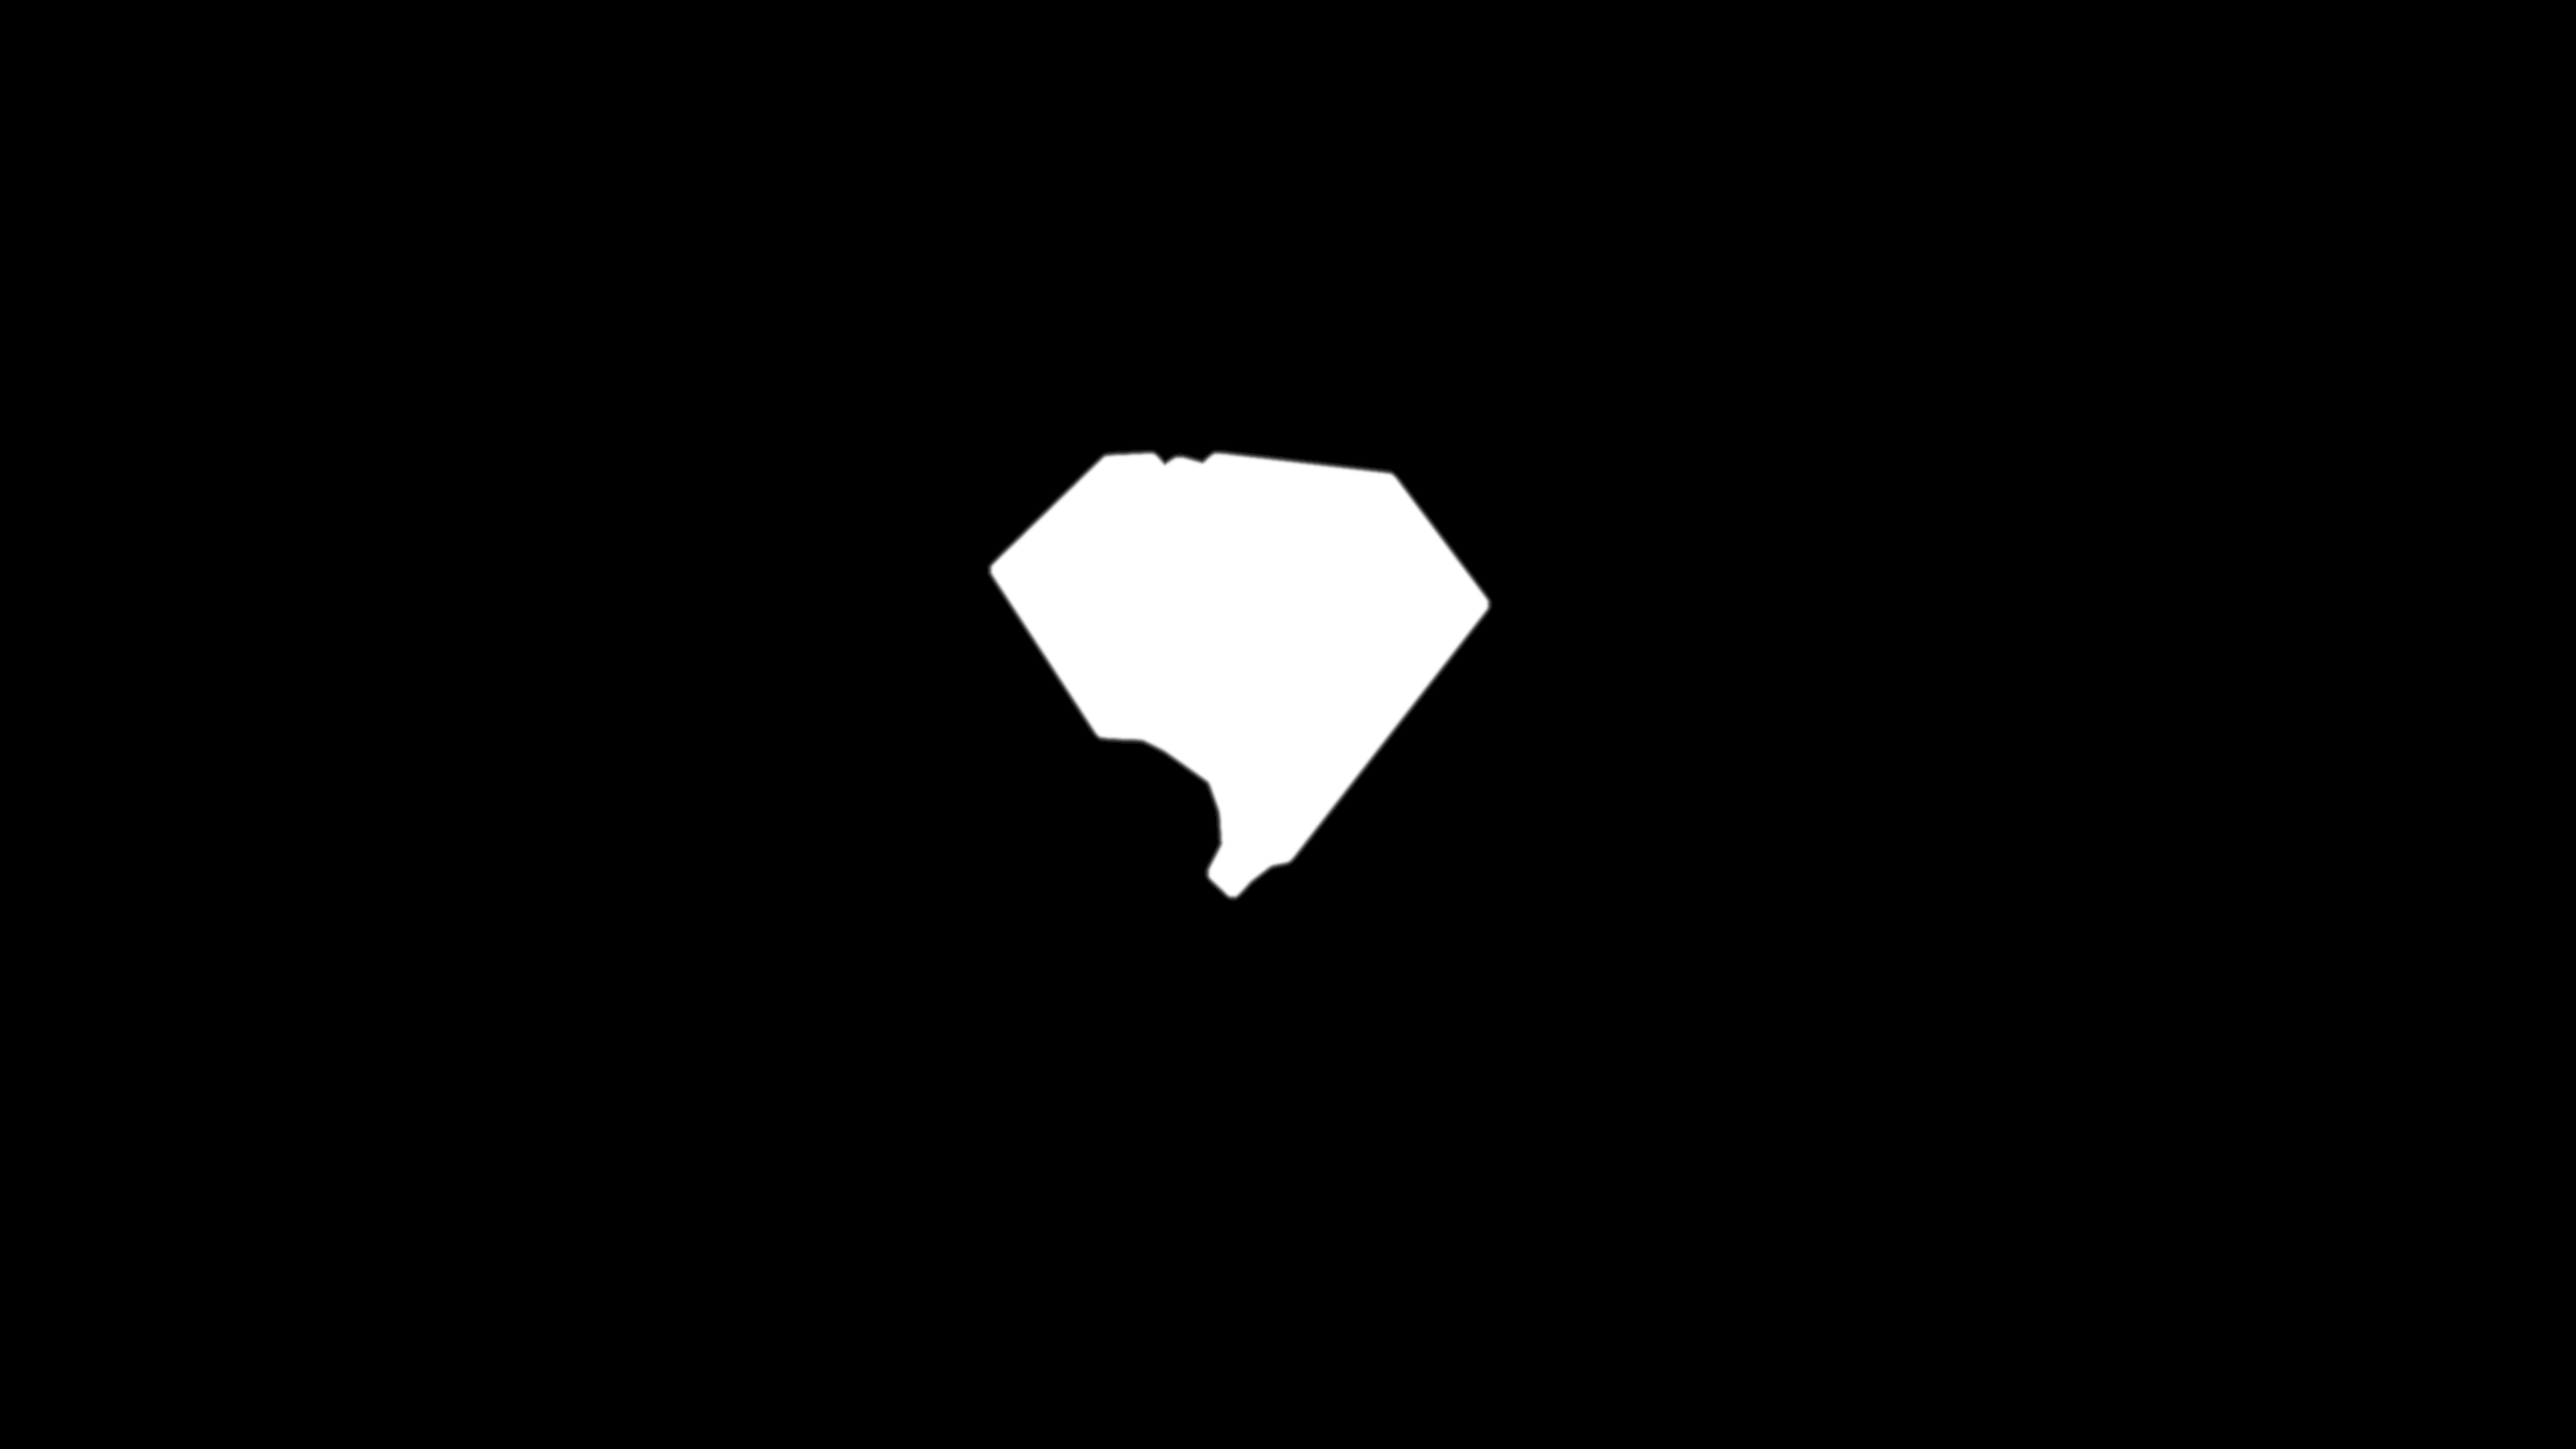
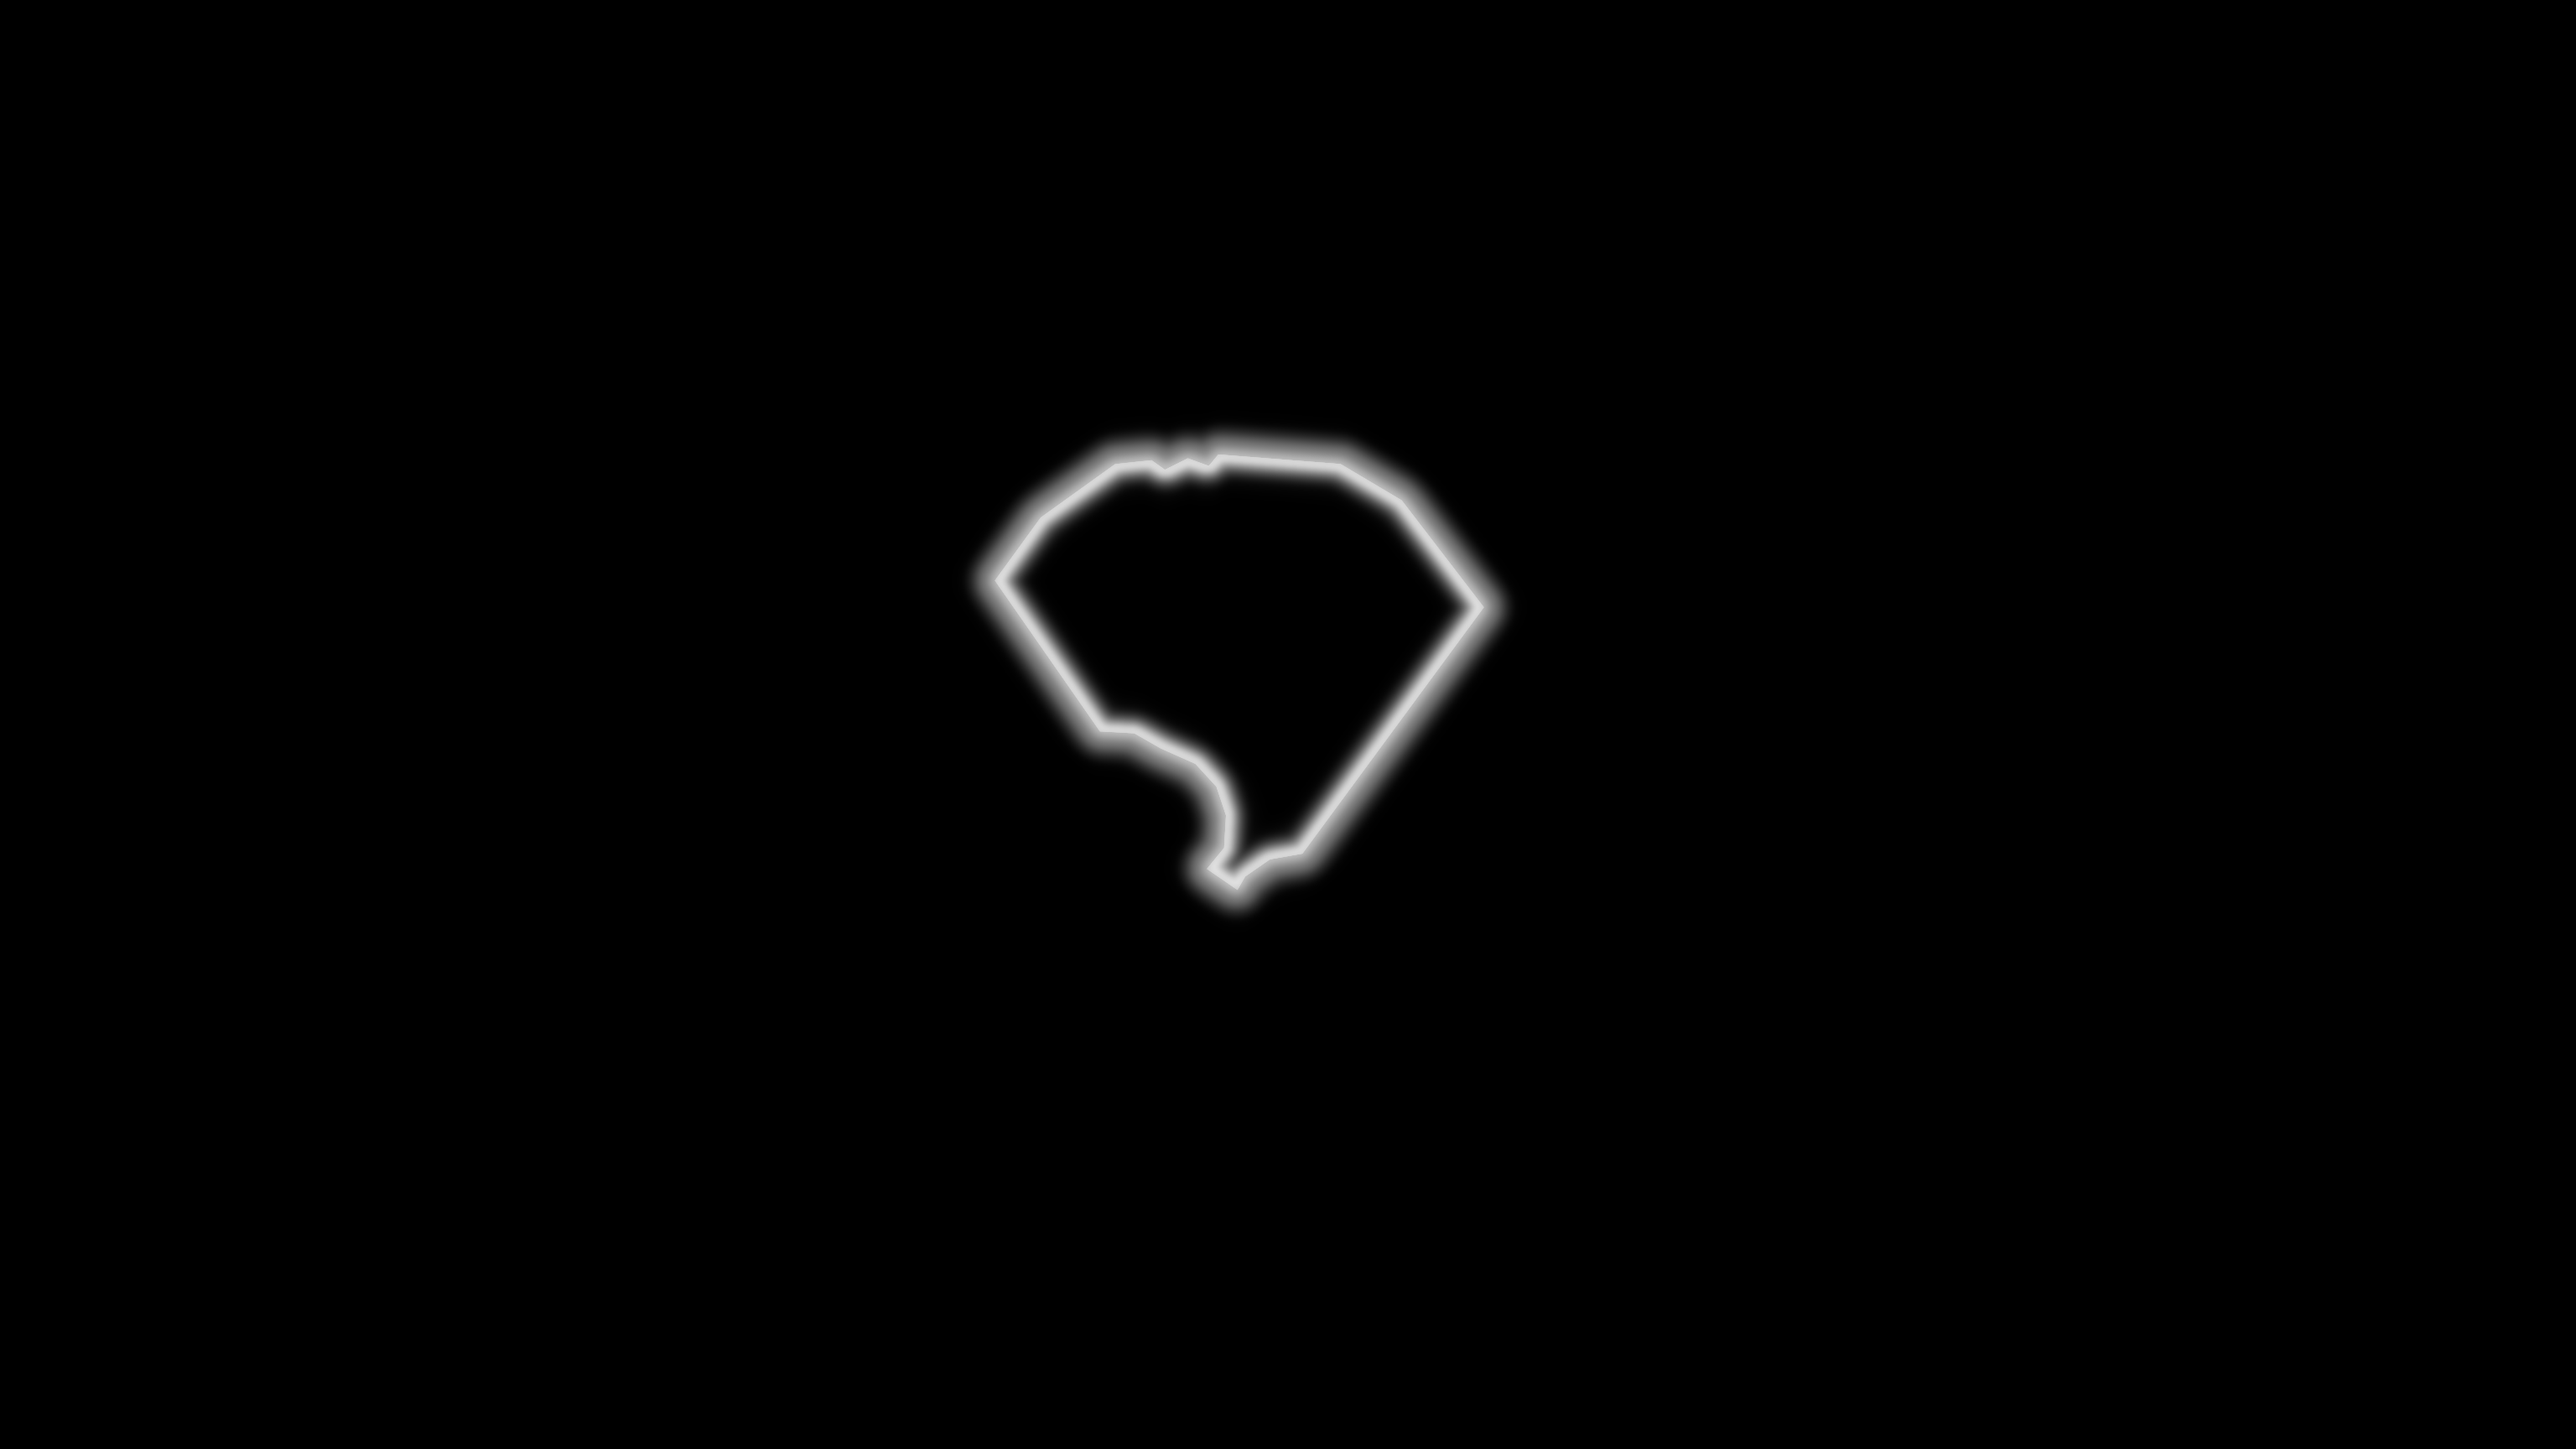
fix: remove godray effect and update diamond mask assets
Drop GodrayFilter — incompatible with the two-layer rendering
architecture (Canvas 2D scene + transparent PixiJS overlay).
Update diamond glow mask PNGs with revised edge profiles.

Changed region(s): [[0.375, 0.2812, 0.5938, 0.625]]

diff --git a/tests/unit/effects.test.js b/tests/unit/effects.test.js
@@ -64,7 +64,6 @@ describe('effects.js — factory registry', () => {
       expect(hasEffectType('heat')).toBe(true);
       expect(hasEffectType('dust')).toBe(true);
       expect(hasEffectType('glow')).toBe(true);
-      expect(hasEffectType('godray')).toBe(true);
       expect(hasEffectType('shockwave')).toBe(true);
     });
 
@@ -104,16 +103,14 @@ describe('effects.js — factory registry', () => {
   });
 
   describe('type sets', () => {
-    it('noiseFreeTypes contains glow, godray, and shockwave', () => {
+    it('noiseFreeTypes contains glow and shockwave', () => {
       expect(noiseFreeTypes.has('glow')).toBe(true);
-      expect(noiseFreeTypes.has('godray')).toBe(true);
       expect(noiseFreeTypes.has('shockwave')).toBe(true);
       expect(noiseFreeTypes.has('water')).toBe(false);
     });
 
-    it('overlayTypes contains glow but not godray', () => {
+    it('overlayTypes contains glow', () => {
       expect(overlayTypes.has('glow')).toBe(true);
-      expect(overlayTypes.has('godray')).toBe(false);
       expect(overlayTypes.has('shockwave')).toBe(false);
     });
   });
@@ -233,32 +230,6 @@ describe('effects.js — factory registry', () => {
 
     it('glow effect uses default params when none provided', () => {
       const result = createEffect('glow', null);
-
-      expect(result).not.toBeNull();
-      expect(result.filter).toBeDefined();
-    });
-
-    it('creates a godray effect with filter and update function', () => {
-      const result = createEffect('godray', null, {
-        angle: 45,
-        gain: 0.6,
-      });
-
-      expect(result).not.toBeNull();
-      expect(result.filter).toBeDefined();
-      expect(typeof result.update).toBe('function');
-    });
-
-    it('godray advances time on update', () => {
-      const result = createEffect('godray', null, { speed: 0.01 });
-
-      expect(result.filter.time).toBe(0);
-      result.update();
-      expect(result.filter.time).toBeGreaterThan(0);
-    });
-
-    it('godray uses default params when none provided', () => {
-      const result = createEffect('godray', null);
 
       expect(result).not.toBeNull();
       expect(result.filter).toBeDefined();

diff --git a/src/effects.js b/src/effects.js
@@ -9,7 +9,7 @@
  */
 
 import { DisplacementFilter } from 'pixi.js';
-import { GlowFilter, GodrayFilter, ShockwaveFilter } from 'pixi-filters';
+import { GlowFilter, ShockwaveFilter } from 'pixi-filters';
 
 const factories = Object.create(null);
 
@@ -37,7 +37,7 @@ export function hasEffectType(type) {
 }
 
 /** Effect types that don't need a displacement noise sprite. */
-export const noiseFreeTypes = new Set(['glow', 'godray', 'shockwave']);
+export const noiseFreeTypes = new Set(['glow', 'shockwave']);
 
 /**
  * Overlay effect types render the mask as content (not a clipping mask).
@@ -143,40 +143,6 @@ registerEffect('glow', (_sprite, params = {}) => {
       t += pulseSpeed;
       const pulse = 1 + Math.sin(t) * pulseDepth;
       filter.outerStrength = outerStrength * pulse;
-    },
-  };
-});
-
-/**
- * Godray: volumetric light rays that shimmer over time. Creates ethereal
- * beams of light across the masked scene region.
- */
-registerEffect('godray', (_sprite, params = {}) => {
-  const {
-    angle = 30,
-    gain = 0.5,
-    lacunarity = 2.5,
-    parallel = true,
-    centerX = 0.5,
-    centerY = 0.3,
-    speed = 0.008,
-    alpha = 1,
-  } = params;
-
-  const filter = new GodrayFilter({
-    angle,
-    gain,
-    lacunarity,
-    parallel,
-    center: { x: centerX, y: centerY },
-    alpha,
-  });
-  filter.time = 0;
-
-  return {
-    filter,
-    update() {
-      filter.time += speed;
     },
   };
 });

diff --git a/tests/unit/effects-canvas.test.js b/tests/unit/effects-canvas.test.js
@@ -82,7 +82,7 @@ vi.mock('../../src/effects.js', () => ({
     filter: { enabled: true },
     update: vi.fn(),
   })),
-  noiseFreeTypes: new Set(['glow', 'godray', 'shockwave']),
+  noiseFreeTypes: new Set(['glow', 'shockwave']),
   overlayTypes: new Set(['glow']),
 }));
 
